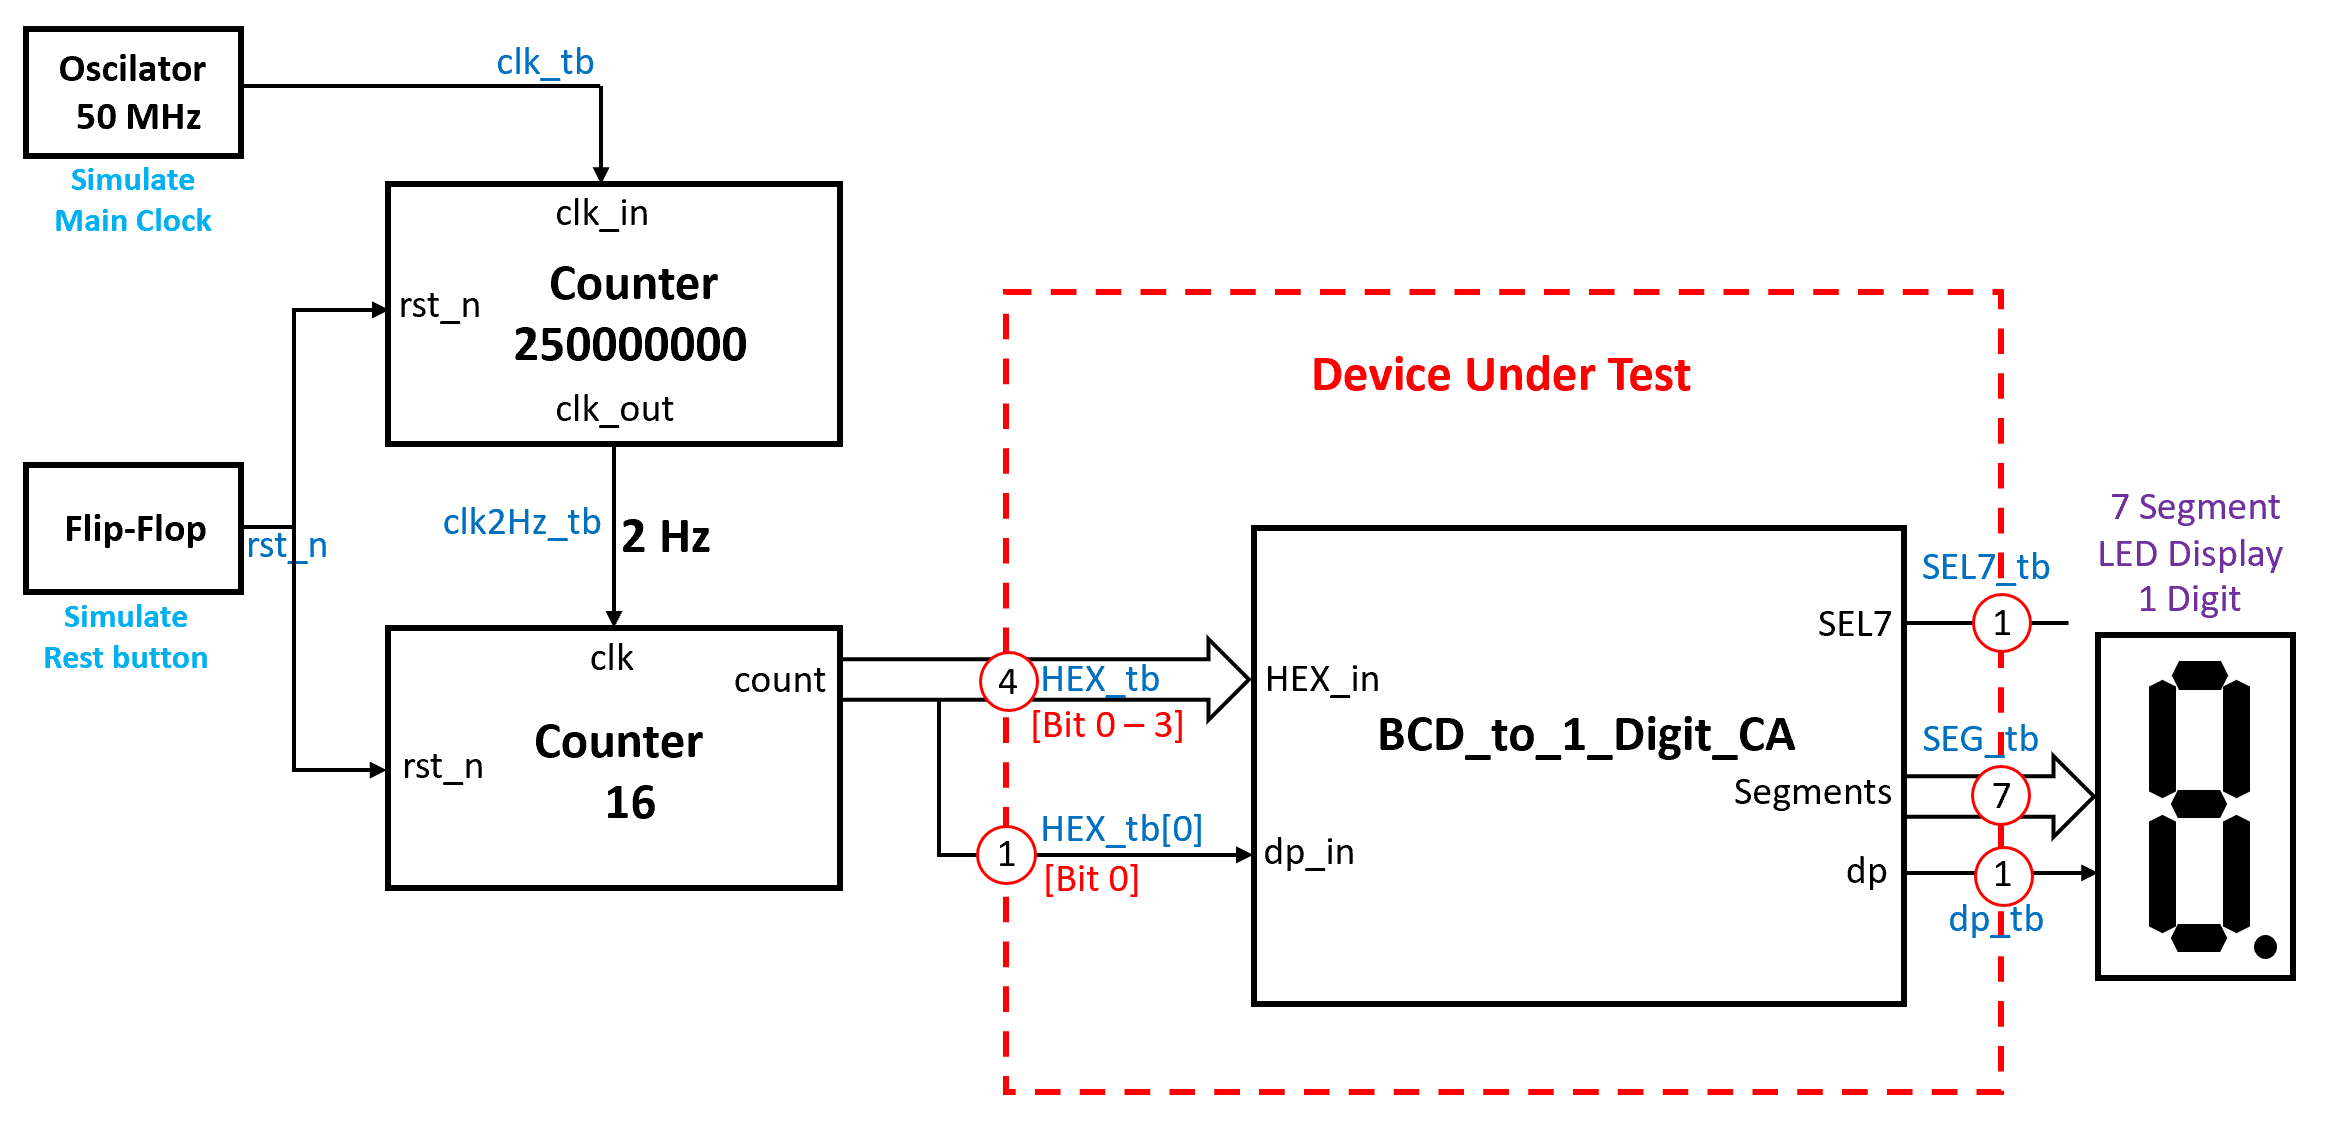
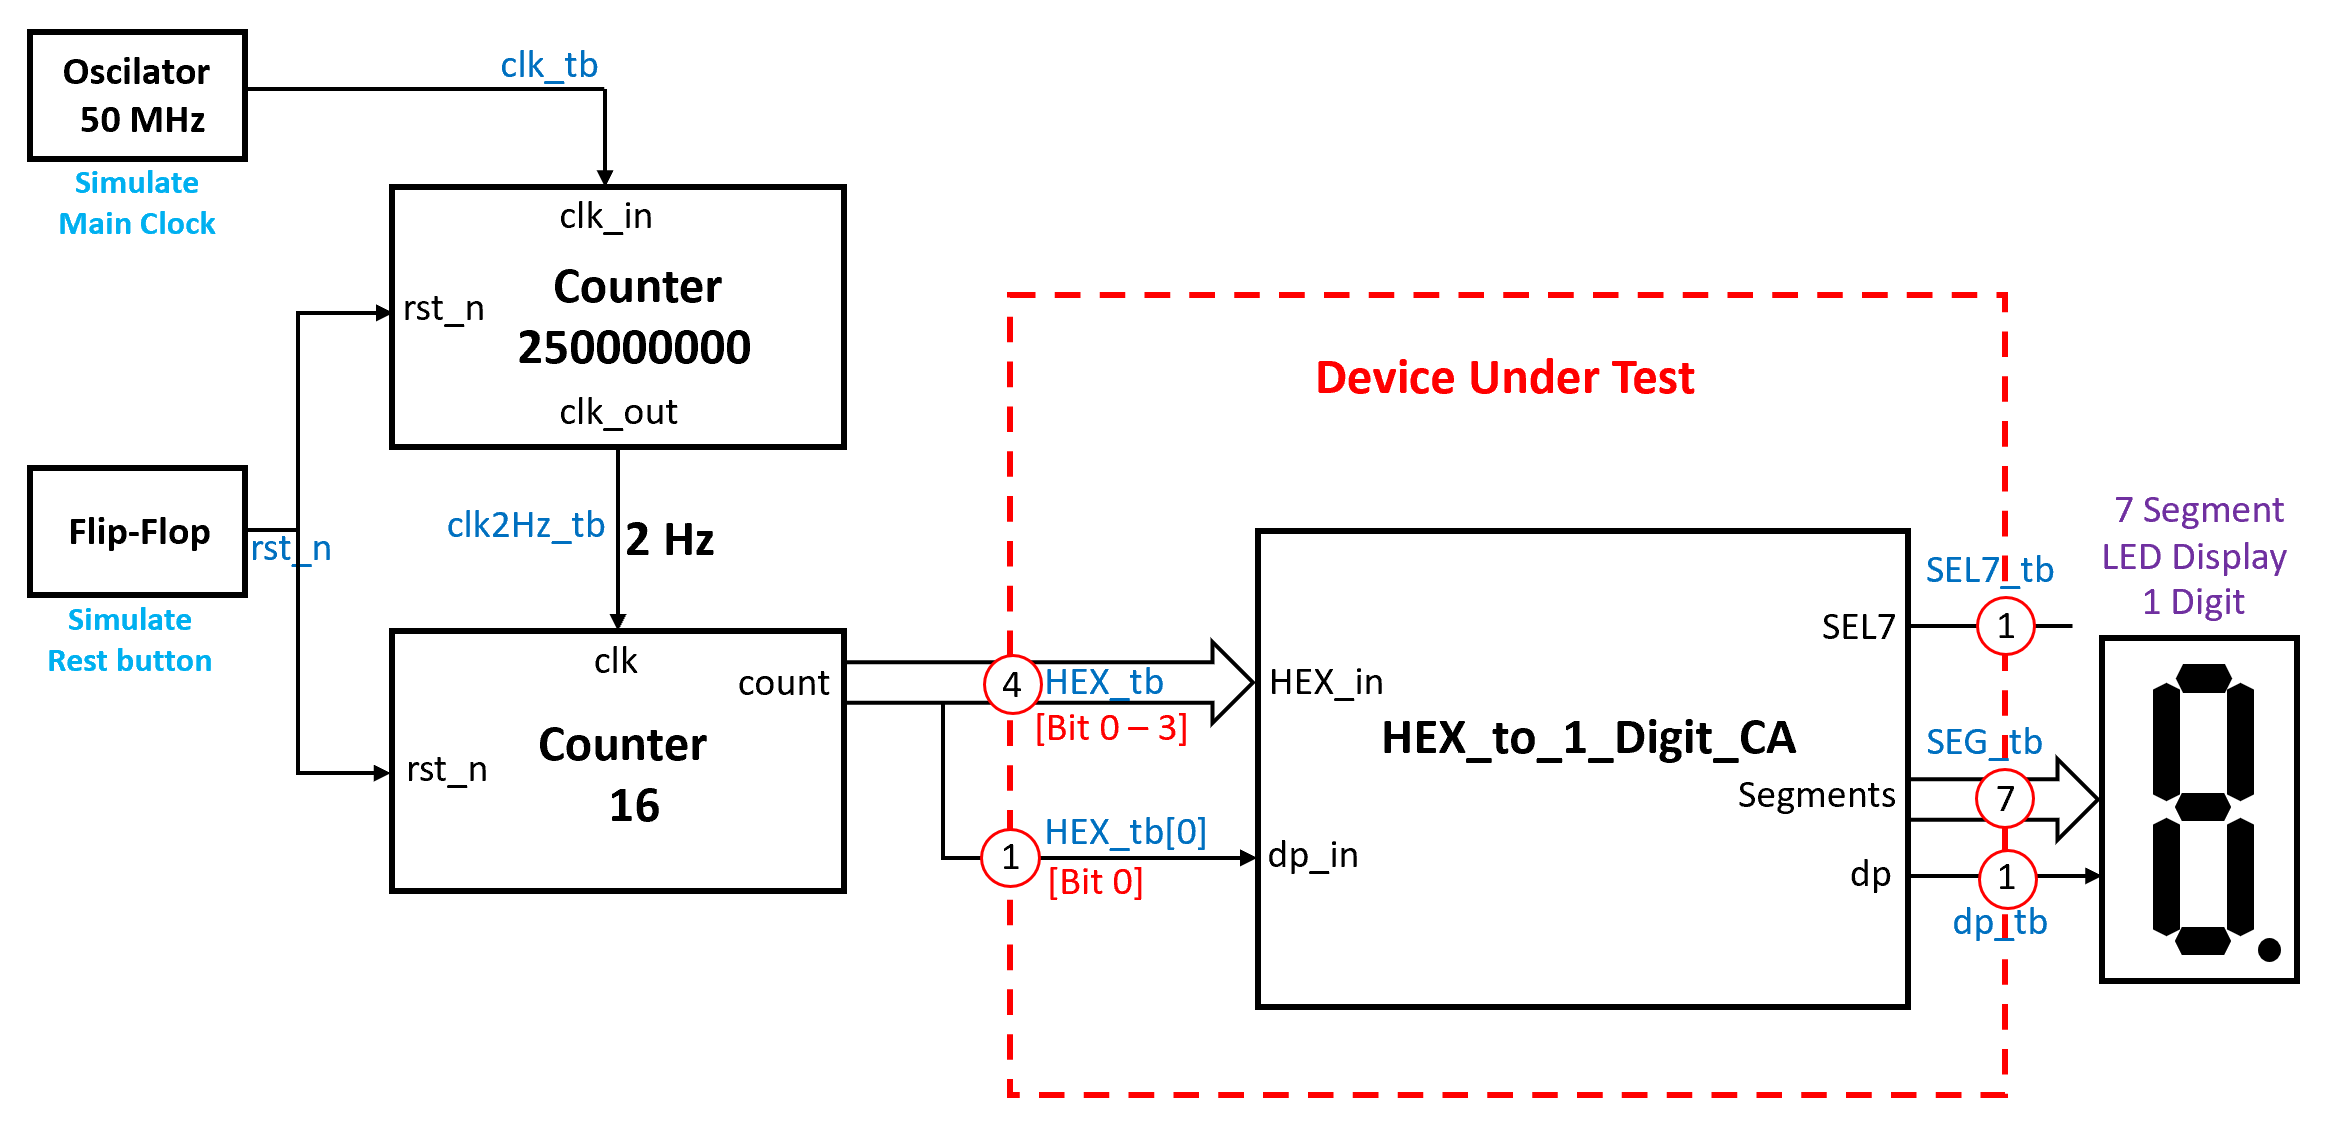
new file:   1_ Digit_Displa_CA/HEX_to_1_Digit_CA_tb.vhd

diff --git a/1_ Digit_Displa_CA/README_1.md b/1_ Digit_Displa_CA/README_1.md
@@ -202,3 +202,8 @@ To test the correctness of the code, I created a test bench whose structure can 
 
 ![ Figure 11 ](/Pictures/Figure11.png)
 
+The 2 Hz signal is applied to a 16-bit counter. Its outputs are applied directly as the “HEX_in” input signal for the module under test. Bit 0 is applied as the “dp_in” input signal. Thus, the DP segment will light up every second indicating that the test is running.
+
+The source code for the test bench program written in VHDL is as follows:
+
+https://github.com/LincaMarius/FPGA_7_Segment_Display_Driver/blob/main/1_%20Digit_Displa_CA/HEX_to_1_Digit_CA_tb.vhd
